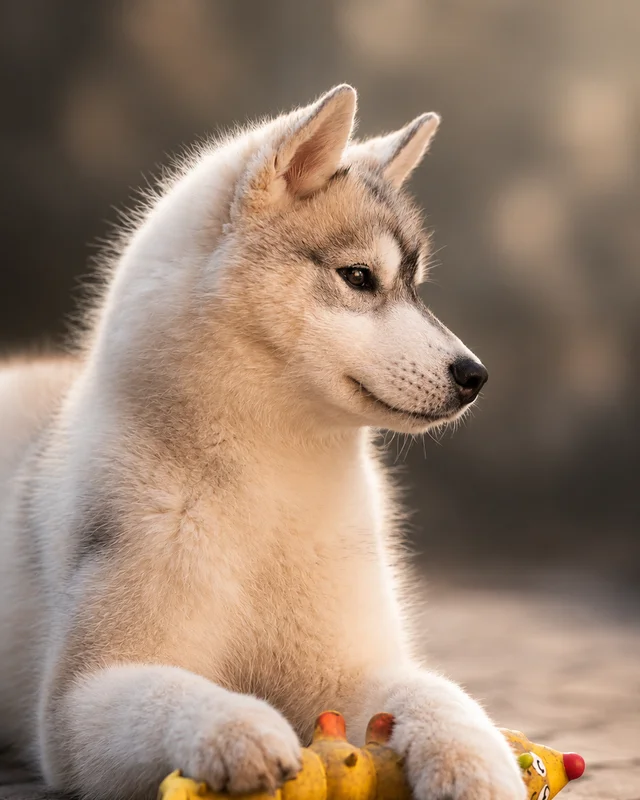
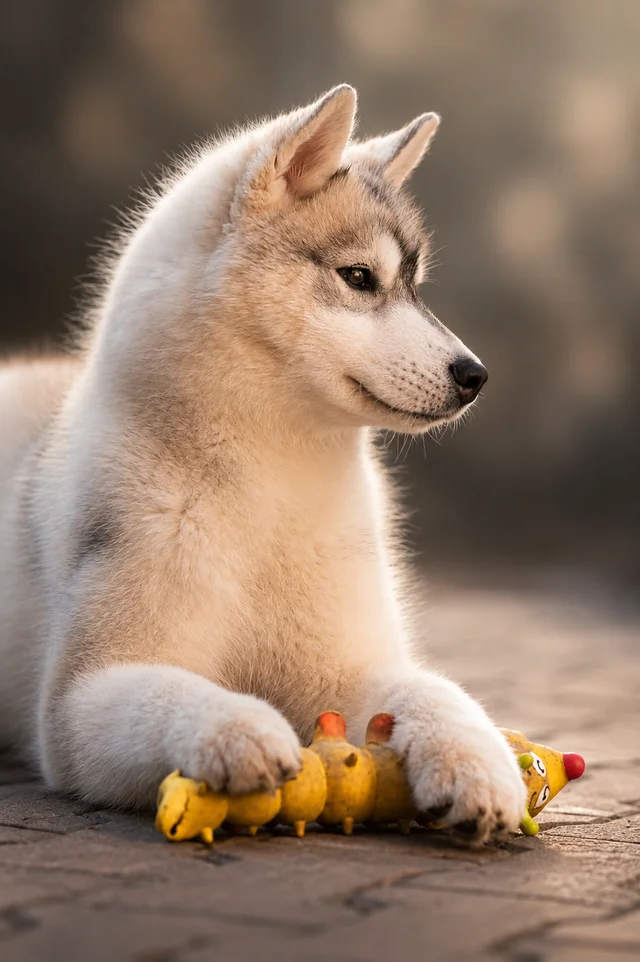
Pui Husky pe Devino membru: fotografia completa, fara decupare (640x962)

diff --git a/src/content/pagini/ro/membri/devino-membru.md b/src/content/pagini/ro/membri/devino-membru.md
@@ -5,7 +5,7 @@ section: "Membri"
 summary: "Cum devii membru al Club Federal Chinologic – Royal: formular online, pași, cotizație."
 ---
 
-<img src="/images/membru-pui-husky.webp" alt="Pui de Husky Siberian cu o jucărie — începutul unui drum în chinologie" width="640" height="800" loading="eager" style="float:left;width:min(42%,300px);height:auto;border-radius:var(--radius);border:1px solid var(--color-border);margin:0 1.5rem 1rem 0" />
+<img src="/images/membru-pui-husky.webp" alt="Pui de Husky Siberian cu o jucărie — începutul unui drum în chinologie" width="640" height="962" loading="eager" style="float:left;width:min(42%,300px);height:auto;border-radius:var(--radius);border:1px solid var(--color-border);margin:0 1.5rem 1rem 0" />
 
 Calitatea de membru al asociației Club Federal Chinologic – Royal sau al asociațiilor membre/afiliate
 reprezintă apartenența la o organizație națională care susține dezvoltarea responsabilă a chinologiei.

diff --git a/src/content/pagini/en/membri/devino-membru.md b/src/content/pagini/en/membri/devino-membru.md
@@ -5,7 +5,7 @@ section: "Members"
 summary: "How to join the Royal Federal Canine Club: online form, steps, fee."
 ---
 
-<img src="/images/membru-pui-husky.webp" alt="Siberian Husky puppy with a toy — the beginning of a journey in cynology" width="640" height="800" loading="eager" style="float:left;width:min(42%,300px);height:auto;border-radius:var(--radius);border:1px solid var(--color-border);margin:0 1.5rem 1rem 0" />
+<img src="/images/membru-pui-husky.webp" alt="Siberian Husky puppy with a toy — the beginning of a journey in cynology" width="640" height="962" loading="eager" style="float:left;width:min(42%,300px);height:auto;border-radius:var(--radius);border:1px solid var(--color-border);margin:0 1.5rem 1rem 0" />
 
 Membership of the Royal Federal Canine Club or of its member/affiliated associations means belonging
 to a national organisation that supports the responsible development of cynology.
